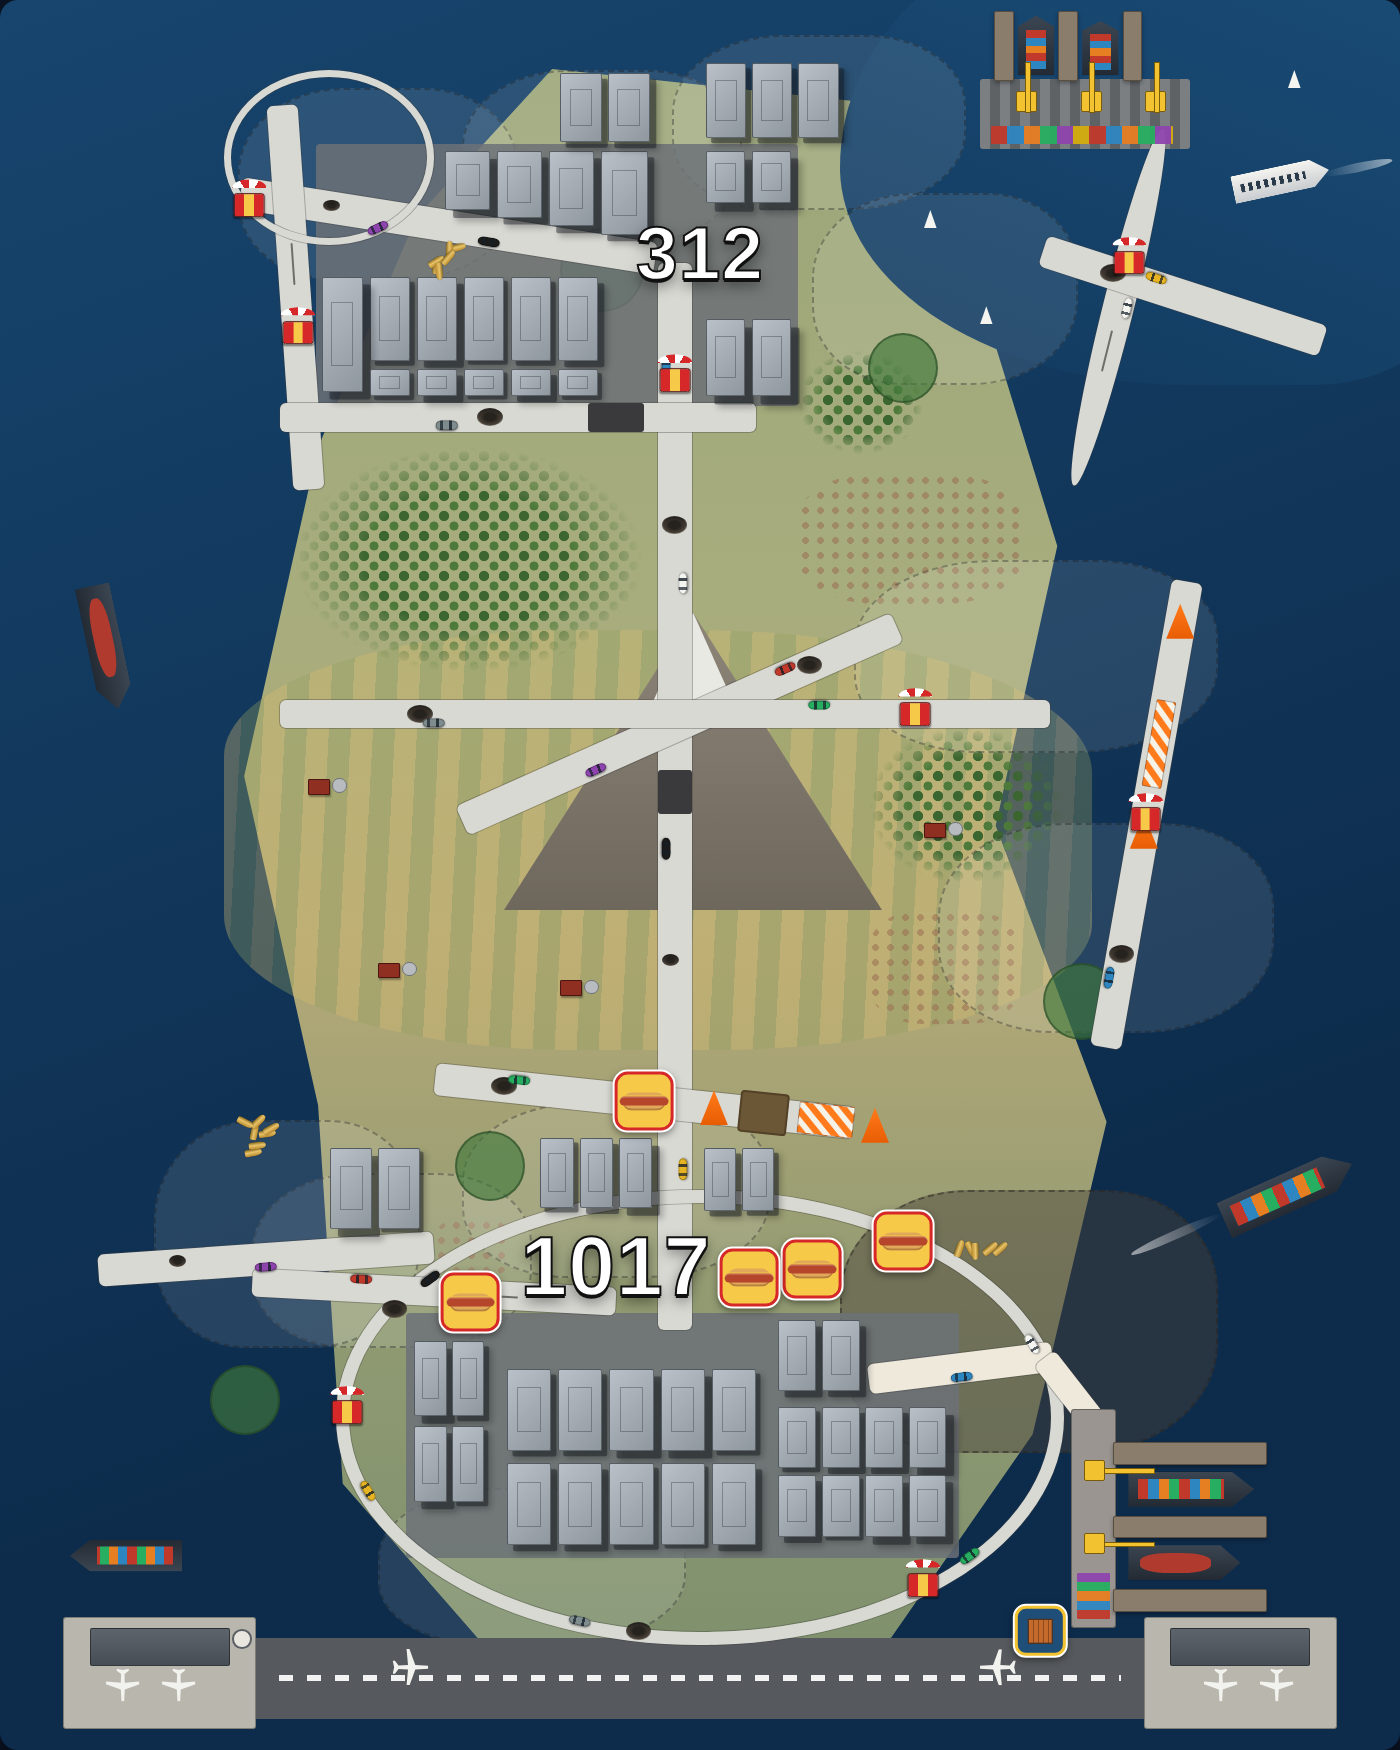
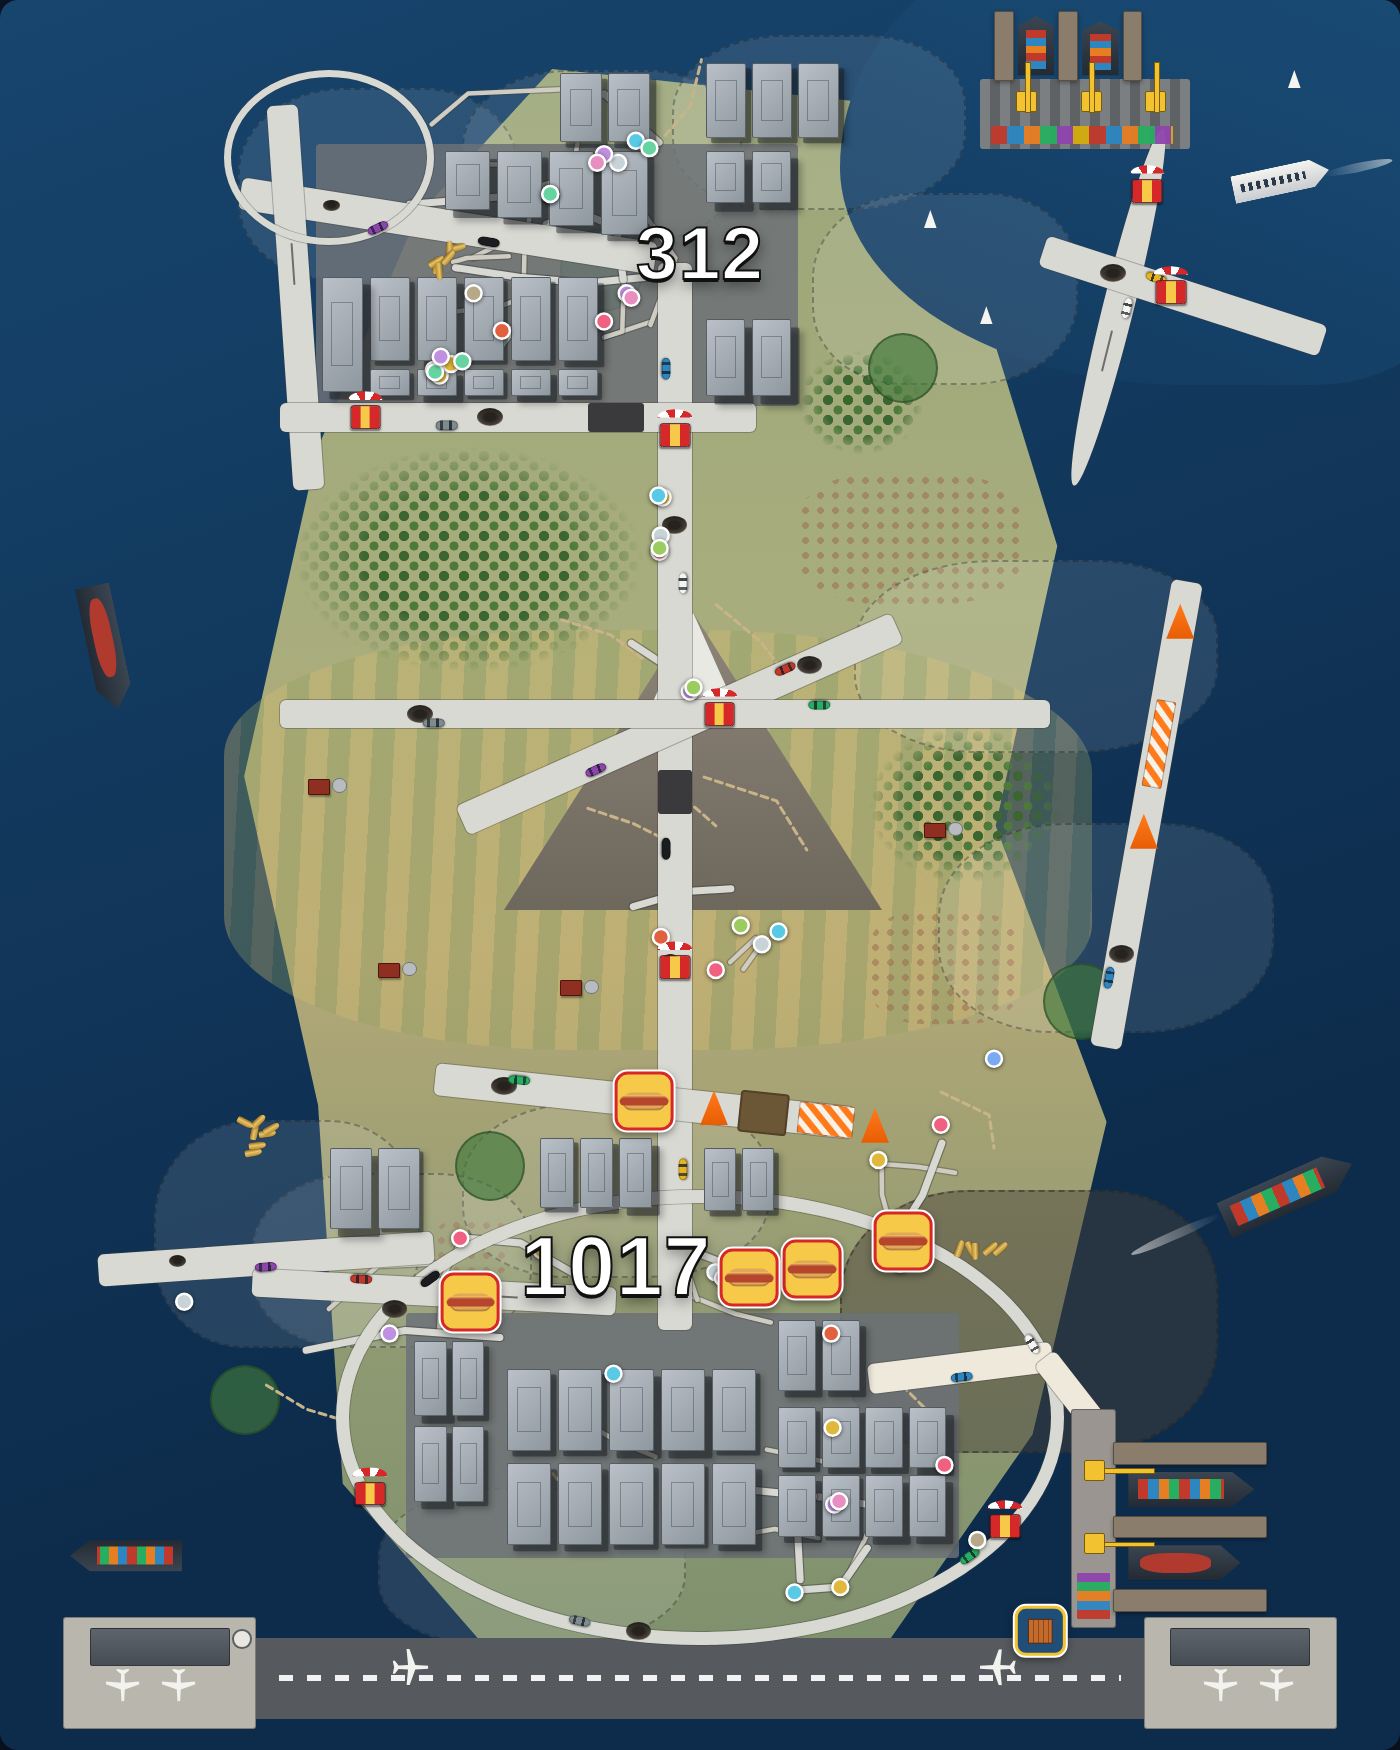
Put the game's roads and points of interest on the big map
New tools/gen-map-detail-layer.js reads js-snippets (places.js and every
pin source) and rewrites three marked blocks in map-detail:
- the 50 gameplay roads not already hand-drawn, styled by kind
  (avenue/boulevard, street, backroad), names on hover
- 50 pins: spawns, shops, the gun shop, fuel, hospitals, duty stations,
  the jail, housing, impound, clothing and supply drops, names on hover
- legend rows for both

Each city's roads and districts are fitted into its part of the plate.
Pins far from their city's roads (the jail) go to a fixed spot marked
off the drawn area. The 13 hand-drawn main roads now carry their game
names on hover.

Claude-Session: https://claude.ai/code/session_01FagBtygwPmHUod4bPZTnD1

diff --git a/tools/gen-map-detail-layer.js b/tools/gen-map-detail-layer.js
@@ -1,0 +1,180 @@
+// ============================================================
+// tools/gen-map-detail-layer.js — puts the gameplay data on the big map
+//
+//   node tools/gen-map-detail-layer.js
+//
+// Rewrites three marked blocks inside map-detail, in place:
+//   GAMEPLAY ROADS   every road in places.js that isn't one of the
+//                    hand-drawn main roads, as an SVG under them
+//   GAMEPLAY PINS    every spawn, shop, fuel stop, hospital, duty
+//                    station, jail, house, impound lot, clothes shop
+//                    and supply drop, as a pin over everything
+//   GAMEPLAY LEGEND  the legend rows for the two layers above
+//
+// Each city's data is fitted into that city's part of the plate
+// (312 north, 770 middle, 1017 south), keeping its shape. The big
+// map is schematic, so this is "roughly where", not walked coords:
+// fix the numbers in js-snippets, then run this again.
+// ============================================================
+
+const fs = require("fs");
+const B = `${__dirname}/../js-snippets/`;
+const places     = require(`${B}places.js`);
+const cities     = require(`${B}cities.js`);
+const spawns     = require(`${B}spawns.js`);
+const shops      = require(`${B}shops.js`);
+const fuel       = require(`${B}fuel.js`);
+const medical    = require(`${B}medical.js`);
+const jobs       = require(`${B}jobs.js`);
+const police     = require(`${B}police.js`);
+const houses     = require(`${B}houses.js`);
+const impound    = require(`${B}impound.js`);
+const appearance = require(`${B}appearance.js`);
+const drugs      = require(`${B}drugs.js`);
+
+const MAP = `${__dirname}/../map-detail`;
+const W = 1400, H = 1750;   // the plate at full size; the SVGs use this as their viewBox
+
+// Main roads already drawn by hand on the big map: they get the game
+// name on hover instead of being drawn a second time.
+const HAND_DRAWN = new Set([
+    "Lakeshore Drive", "The 312 Skyway", "Ironline Expressway", "Palisade Boulevard", "The Causeway",
+    "Knot Loop", "Backroads Highway", "County Line Road", "The Connector", "The Perimeter",
+    "Westside Run", "Red Clay Expressway", "Peachline Road",
+]);
+
+// Where each city sits on the plate, in % of width / height.
+const REGIONS = {
+    chicago: { x0: 17, x1: 62, y0: 2.5, y1: 25.5 },
+    geepee:  { x0: 20, x1: 78, y0: 27,  y1: 60 },
+    atlanta: { x0: 6,  x1: 80, y0: 61,  y1: 93 },
+};
+
+const ROAD_STYLE = {
+    arterial: { w: 7,   fill: "#d9d9d4", casing: "rgba(60,60,60,.45)", dash: "" },
+    street:   { w: 4.5, fill: "#cfccc2", casing: "rgba(60,60,60,.35)", dash: "" },
+    backroad: { w: 3,   fill: "#c9b48a", casing: "",                   dash: "7 5" },
+    highway:  { w: 10,  fill: "#d9d9d4", casing: "rgba(60,60,60,.45)", dash: "" },
+};
+
+const PINS = {
+    spawn:   { label: "Spawn point",          color: "#c8d3d8" },
+    shop:    { label: "Shop",                 color: "#e0b83c" },
+    ammu:    { label: "Gun shop",             color: "#e06040" },
+    gas:     { label: "Fuel",                 color: "#59cae6" },
+    med:     { label: "Hospital",             color: "#f06080" },
+    job:     { label: "Duty station",         color: "#66d4a0" },
+    law:     { label: "Jail",                 color: "#7aabf0" },
+    home:    { label: "Housing",              color: "#c090e0" },
+    lot:     { label: "Impound lot",          color: "#b8a88a" },
+    clothes: { label: "Clothing store",       color: "#e88ec0" },
+    supply:  { label: "Supply drop",          color: "#9acc60" },
+};
+
+const esc = (s) => String(s).replace(/&/g, "&amp;").replace(/</g, "&lt;").replace(/>/g, "&gt;").replace(/"/g, "&quot;");
+const r1 = (v) => Math.round(v * 10) / 10;
+
+function allPins() {
+    const out = [];
+    const add = (kind, label, pos, note) => out.push({ kind, label, pos, note, city: cities.cityAt(pos) });
+    for (const [city, list] of Object.entries(spawns.SPAWNS)) for (const s of list) add("spawn", s.label, s.pos, `spawn, ${city}`);
+    for (const s of Object.values(shops.SHOPS)) add(s.goldItems ? "ammu" : "shop", s.label, s.pos, s.goldItems ? "weapons + ammo for gold" : "general goods");
+    for (const g of fuel.GAS_STATIONS) add("gas", g.label, g.pos, "/refuel");
+    for (const list of Object.values(medical.HOSPITALS)) for (const h of list) add("med", h.label, h.pos, "respawn point");
+    for (const job of Object.values(jobs.JOBS)) for (const [city, pos] of Object.entries(job.stations || {})) add("job", job.label, pos, `duty station, ${city}`);
+    add("law", "County Lockup", police.JAIL.cell, "jail cell");
+    for (const h of Object.values(houses.HOUSES)) add("home", h.label, h.pos, `housing, ${h.district}`);
+    for (const l of impound.LOTS) add("lot", l.label, l.pos, "impound lot");
+    for (const s of appearance.SHOPS) add("clothes", s.label, s.pos, "clothing store");
+    for (const s of drugs.SUPPLY_SPOTS) add("supply", s.label, s.pos, "supply drop");
+    return out;
+}
+
+// Pins that sit well away from their city's roads (the jail is out past
+// Atlanta's edge) aren't fitted, or they'd shrink the whole city; they're
+// drawn at a fixed spot instead, marked "off the drawn area".
+const OFF_GRID = { law: { x: 71, y: 60.5 } };   // % of the plate
+
+// Fit one city's roads and districts into its region, keeping the aspect.
+function projector(city, roads, zones) {
+    const xs = [], ys = [];
+    for (const r of roads) for (const p of r.points) { xs.push(p.x); ys.push(p.y); }
+    for (const z of zones) { xs.push(z.center.x - z.radius, z.center.x + z.radius); ys.push(z.center.y - z.radius, z.center.y + z.radius); }
+    const minX = Math.min(...xs), maxX = Math.max(...xs), minY = Math.min(...ys), maxY = Math.max(...ys);
+    const R = REGIONS[city];
+    const rx0 = R.x0 / 100 * W, rx1 = R.x1 / 100 * W, ry0 = R.y0 / 100 * H, ry1 = R.y1 / 100 * H;
+    const scale = Math.min((rx1 - rx0) / ((maxX - minX) || 1), (ry1 - ry0) / ((maxY - minY) || 1));
+    const ox = rx0 + ((rx1 - rx0) - (maxX - minX) * scale) / 2;   // centre what's left over
+    const oy = ry0 + ((ry1 - ry0) - (maxY - minY) * scale) / 2;
+    const slack = 0.15 * Math.max(maxX - minX, maxY - minY);
+    const inside = (p) => p.x >= minX - slack && p.x <= maxX + slack && p.y >= minY - slack && p.y <= maxY + slack;
+    return { X: (x) => r1(ox + (x - minX) * scale), Y: (y) => r1(oy + (maxY - y) * scale), inside };   // game y runs north
+}
+
+function build() {
+    const pins = allPins();
+    const roadsSvg = [], pinsSvg = [];
+    for (const city of Object.keys(REGIONS)) {
+        const roads = places.ROADS.filter((r) => cities.cityAt(r.points[0]) === city);
+        const zones = places.ZONES.filter((z) => z.city === city);
+        const cityPins = pins.filter((p) => p.city === city);
+        const { X, Y, inside } = projector(city, roads, zones);
+
+        // backroads first, arterials last, so the bigger roads sit on top
+        const order = ["backroad", "street", "arterial", "highway"];
+        for (const r of roads.filter((r) => !HAND_DRAWN.has(r.name)).sort((a, b) => order.indexOf(a.kind) - order.indexOf(b.kind))) {
+            const st = ROAD_STYLE[r.kind] || ROAD_STYLE.street;
+            const pts = r.points.map((p) => `${X(p.x)},${Y(p.y)}`).join(" ");
+            const title = `<title>${esc(r.name)} (${r.kind}, ${city === "chicago" ? "312" : city === "geepee" ? "770" : "1017"})</title>`;
+            if (st.casing) roadsSvg.push(`      <polyline class="gp-casing" points="${pts}" stroke="${st.casing}" stroke-width="${st.w + 2.5}"/>`);
+            roadsSvg.push(`      <polyline class="gp-road gp-${r.kind}" points="${pts}" stroke="${st.fill}" stroke-width="${st.w}"${st.dash ? ` stroke-dasharray="${st.dash}"` : ""}>${title}</polyline>`);
+        }
+        for (const p of cityPins) {
+            const k = PINS[p.kind];
+            let cx = X(p.pos.x), cy = Y(p.pos.y), note = p.note;
+            if (!inside(p.pos)) {
+                const spot = OFF_GRID[p.kind];
+                if (!spot) { console.warn(`skipped ${p.label}: outside ${city}'s roads and no OFF_GRID spot for ${p.kind}`); continue; }
+                cx = r1(spot.x / 100 * W); cy = r1(spot.y / 100 * H); note += ", off the drawn area";
+            }
+            pinsSvg.push(`      <circle class="gp-pin" cx="${cx}" cy="${cy}" r="8" fill="${k.color}"><title>${esc(p.label)} — ${esc(k.label)} (${esc(note)})</title></circle>`);
+        }
+    }
+
+    const roadsBlock = `    <!-- GAMEPLAY ROADS: generated by tools/gen-map-detail-layer.js from js-snippets/places.js; do not edit by hand -->
+    <svg class="gp-layer gp-roads" viewBox="0 0 ${W} ${H}" preserveAspectRatio="none" aria-hidden="true">
+${roadsSvg.join("\n")}
+    </svg>
+    <!-- /GAMEPLAY ROADS -->`;
+    const pinsBlock = `    <!-- GAMEPLAY PINS: generated by tools/gen-map-detail-layer.js; do not edit by hand -->
+    <svg class="gp-layer gp-pins" viewBox="0 0 ${W} ${H}" preserveAspectRatio="none">
+${pinsSvg.join("\n")}
+    </svg>
+    <!-- /GAMEPLAY PINS -->`;
+    const used = [...new Set(pins.map((p) => p.kind))];
+    const legendRows = [
+        `      <li><span class="sw"><svg class="gp-sw" viewBox="0 0 52 34"><line x1="4" y1="17" x2="48" y2="17" stroke="rgba(60,60,60,.45)" stroke-width="9.5"/><line x1="4" y1="17" x2="48" y2="17" stroke="#d9d9d4" stroke-width="7"/></svg></span>Avenue / boulevard (hover for name)</li>`,
+        `      <li><span class="sw"><svg class="gp-sw" viewBox="0 0 52 34"><line x1="4" y1="17" x2="48" y2="17" stroke="rgba(60,60,60,.35)" stroke-width="7"/><line x1="4" y1="17" x2="48" y2="17" stroke="#cfccc2" stroke-width="4.5"/></svg></span>Street (hover for name)</li>`,
+        `      <li><span class="sw"><svg class="gp-sw" viewBox="0 0 52 34"><line x1="4" y1="17" x2="48" y2="17" stroke="#c9b48a" stroke-width="3" stroke-dasharray="7 5"/></svg></span>Backroad / track</li>`,
+        ...used.map((k) => `      <li><span class="sw"><svg class="gp-sw" viewBox="0 0 52 34"><circle cx="26" cy="17" r="8" fill="${PINS[k].color}" stroke="#fff" stroke-width="2.5"/></svg></span>${PINS[k].label}</li>`),
+    ];
+    const legendBlock = `      <!-- GAMEPLAY LEGEND: generated by tools/gen-map-detail-layer.js; do not edit by hand -->
+${legendRows.join("\n")}
+      <!-- /GAMEPLAY LEGEND -->`;
+    return { roadsBlock, pinsBlock, legendBlock, counts: { roads: roadsSvg.filter((l) => l.includes("gp-road")).length, pins: pinsSvg.length } };
+}
+
+function swap(src, startMark, endMark, block) {
+    const a = src.indexOf(startMark), b = src.indexOf(endMark);
+    if (a < 0 || b < 0) throw new Error(`map-detail is missing the ${startMark} … ${endMark} markers`);
+    const lineStart = src.lastIndexOf("\n", a) + 1;
+    return src.slice(0, lineStart) + block + src.slice(b + endMark.length);
+}
+
+const { roadsBlock, pinsBlock, legendBlock, counts } = build();
+let html = fs.readFileSync(MAP, "utf8");
+html = swap(html, "<!-- GAMEPLAY ROADS", "<!-- /GAMEPLAY ROADS -->", roadsBlock);
+html = swap(html, "<!-- GAMEPLAY PINS", "<!-- /GAMEPLAY PINS -->", pinsBlock);
+html = swap(html, "<!-- GAMEPLAY LEGEND", "<!-- /GAMEPLAY LEGEND -->", legendBlock);
+fs.writeFileSync(MAP, html);
+console.log(`map-detail: ${counts.roads} gameplay roads, ${counts.pins} pins`);

diff --git a/js-snippets/README.md b/js-snippets/README.md
@@ -11,6 +11,7 @@ node js-snippets/01-lessons.js        # Lua lessons 3–5, in JS
 node js-snippets/02-demo.js           # inventory + cars walkthrough
 node --test js-snippets/game.test.js  # 131 checks across every system
 node tools/gen-map.js > docs/city-map.html   # redraw the atlas from places.js
+node tools/gen-map-detail-layer.js            # redraw the big map's gameplay roads, pins and legend rows
 ```
 
 ## What's in here
